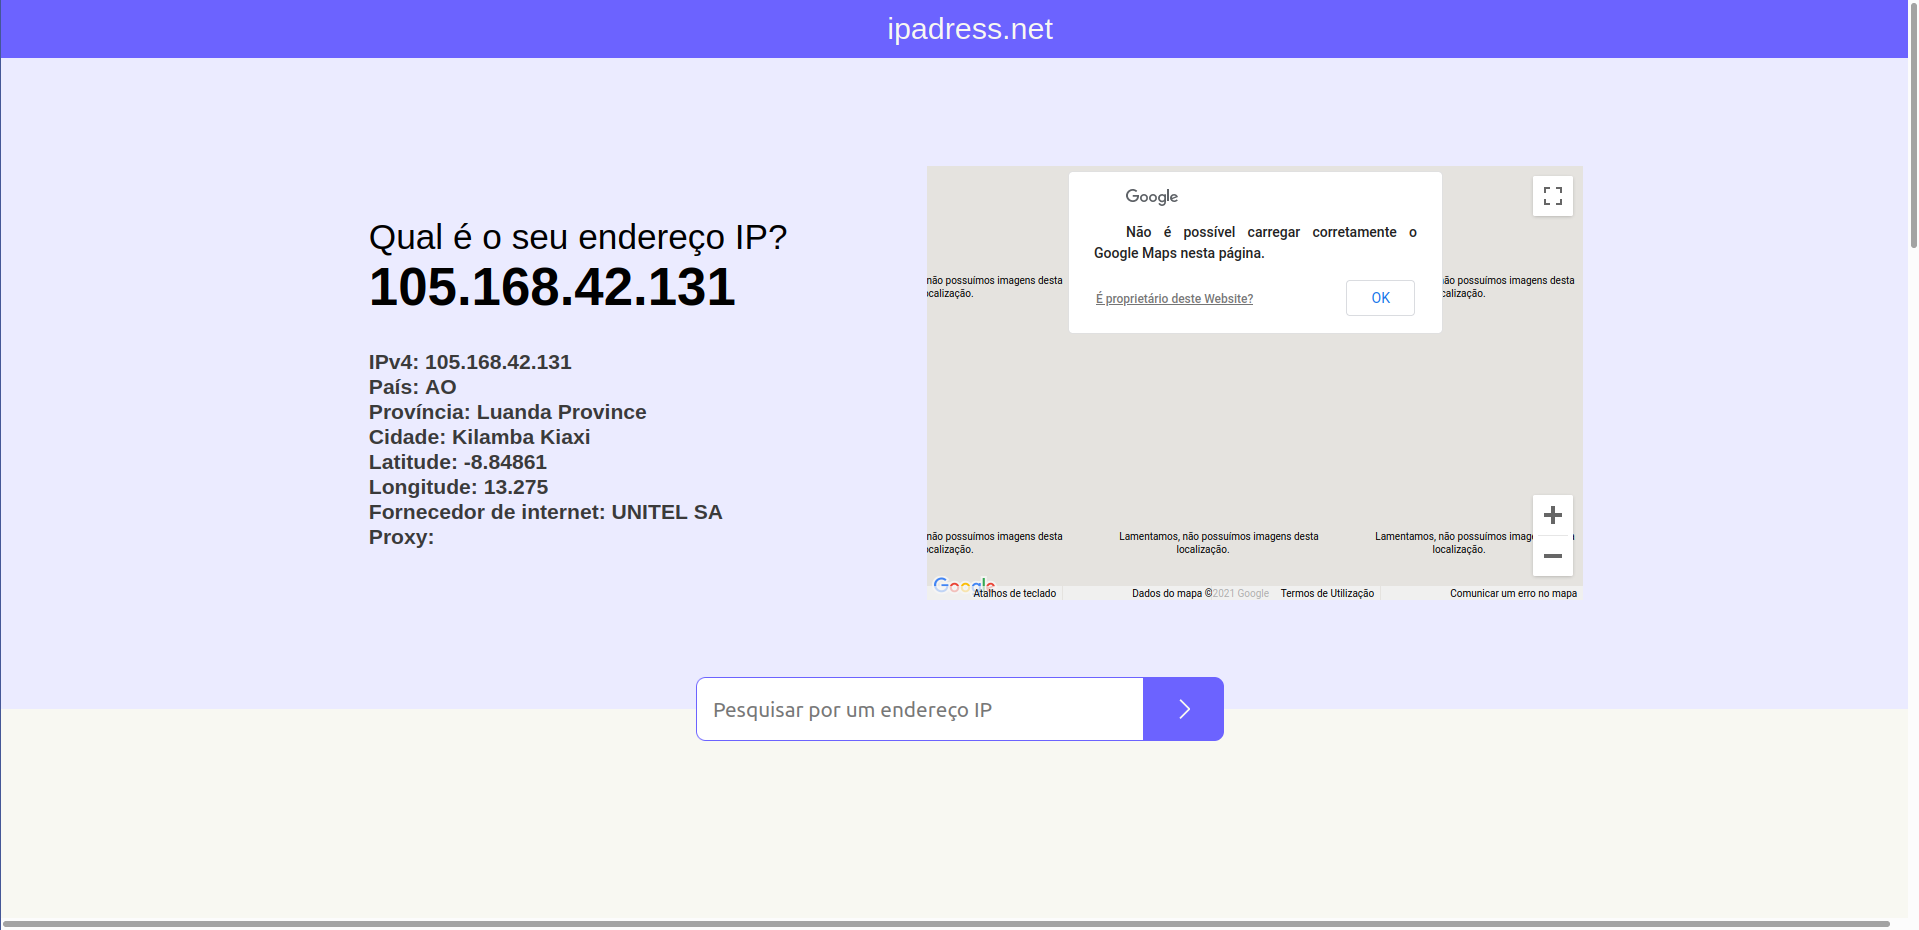
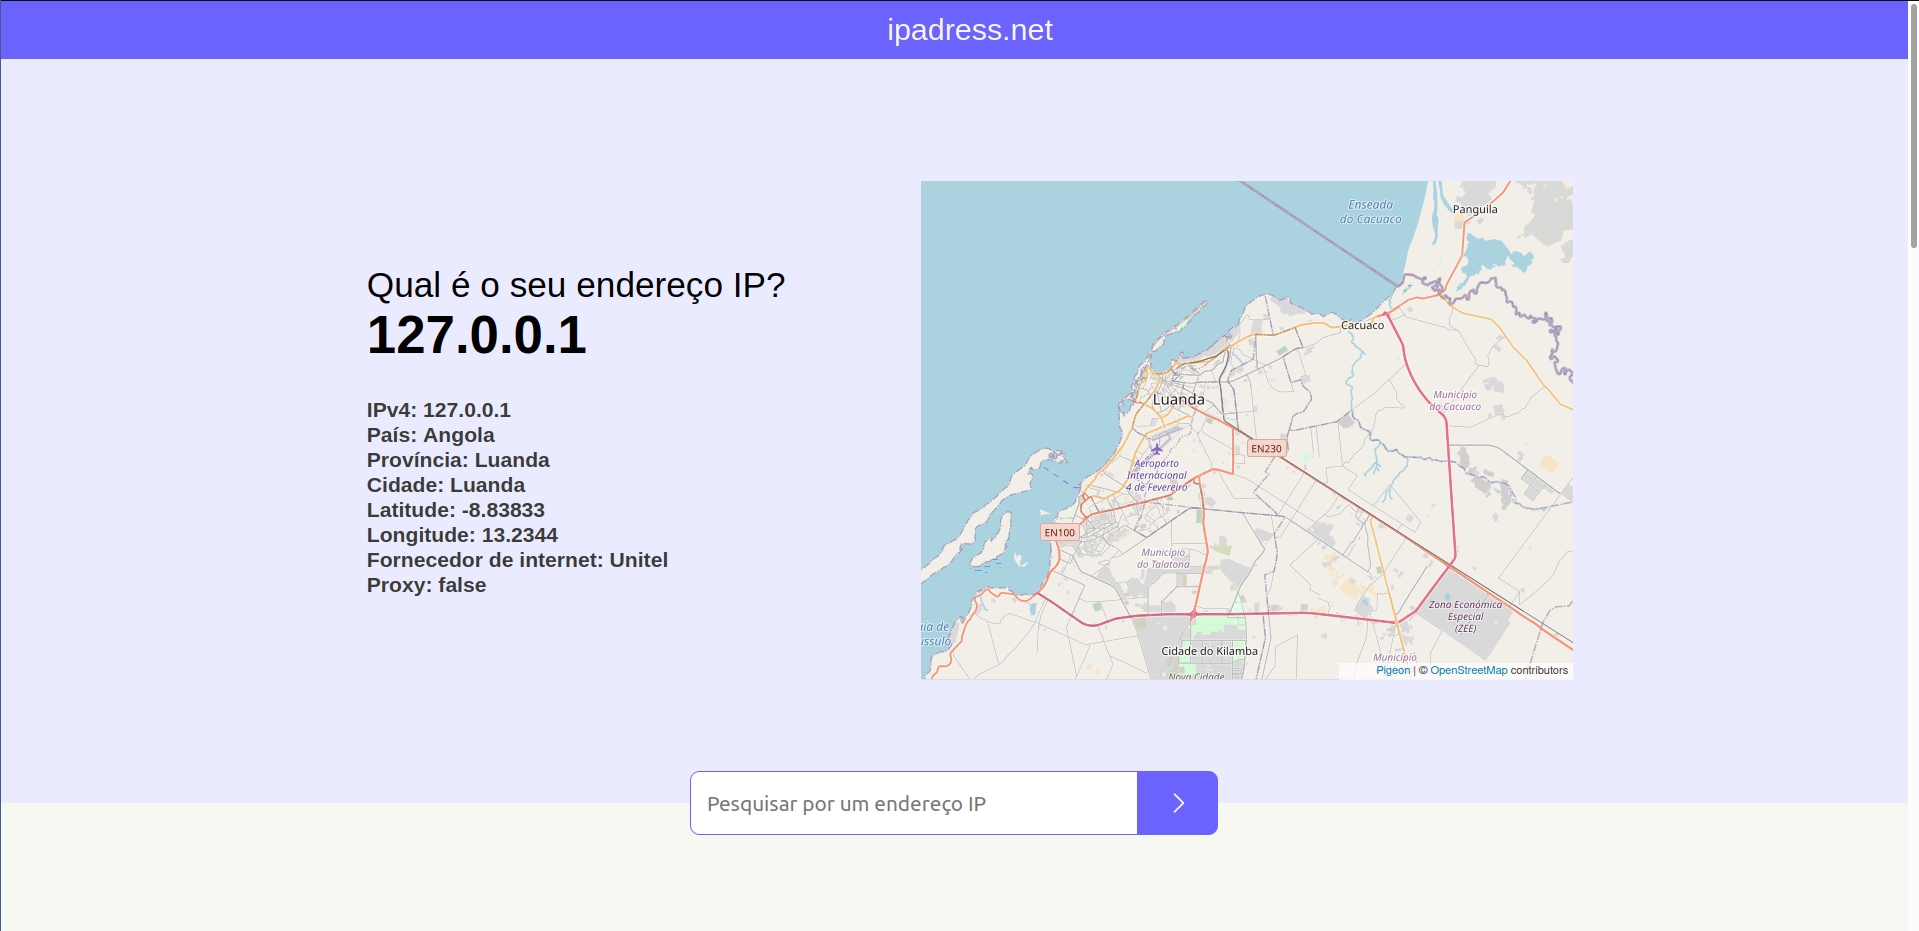
pigeon Maps
Implementing Pigeon Maps in the Project

diff --git a/components/Dashboard/index.js b/components/Dashboard/index.js
@@ -10,13 +10,13 @@ import { WrapperMain, Wrapper, SearchIp } from './styles'
 import { VscChevronRight } from 'react-icons/vsc'
 
 const Dashboard = () => {
-  const [ip, setIp] = useState('0.0.0.0')
-  const [country, setCountry] = useState('zz')
-  const [region, setRegion] = useState('zz')
-  const [city, setCity] = useState('zz')
-  const [lat, setLat] = useState(0)
-  const [lng, setLng] = useState(0)
-  const [isp, setIsp] = useState()
+  const [ip, setIp] = useState('127.0.0.1')
+  const [country, setCountry] = useState('Angola')
+  const [region, setRegion] = useState('Luanda')
+  const [city, setCity] = useState('Luanda')
+  const [lat, setLat] = useState(-8.83833)
+  const [lng, setLng] = useState(13.2344)
+  const [isp, setIsp] = useState('Unitel')
   const [proxy, setProxy] = useState('false')
 
   const [ipAdress, setIpAdress] = useState()
@@ -25,7 +25,8 @@ const Dashboard = () => {
 
   useEffect(async () => {
     NProgress.start()
-    const data = await axios.get(`${url}`)
+    const data = await axios
+      .get(`${url}`)
       .then(response => response.data)
       .catch(error => alert(error))
 
@@ -44,7 +45,8 @@ const Dashboard = () => {
 
   const handleSearchIp = async () => {
     NProgress.start()
-    const data = await axios.get(`${url}&ipAddress=${ipAdress}`)
+    const data = await axios
+      .get(`${url}&ipAddress=${ipAdress}`)
       .then(response => response.data)
       .catch(error => alert(error))
 
@@ -101,7 +103,7 @@ const Dashboard = () => {
 
           <section className="right-side">
             <div className="map">
-              <Map />
+              <Map lat={lat} lng={lng} />
             </div>
           </section>
         </Wrapper>

diff --git a/components/Map/index.js b/components/Map/index.js
@@ -1,30 +1,23 @@
-import React, { useEffect, useState } from 'react'
-import { GoogleMap, withScriptjs, withGoogleMap } from 'react-google-maps'
+import React, { useState } from 'react'
+import { Map } from 'pigeon-maps'
 
 import { Wrapper } from './styles'
 
-const MapaWrapper = () => {
-  return (
-    <GoogleMap
-      defaultZoom={10}
-      defaultCenter={{ lat: 45.4211, lng: -75.6903 }}
-    />
-  )
-}
-
-const MapWrapped = withScriptjs(withGoogleMap(MapaWrapper))
-
-const Map = () => {
+const Maps = ({lat, lng}) => {
+  const [center, setCenter] = useState([-8.83833, 13.2344])
+  const [zoom, setZoom] = useState(10)
   return (
     <Wrapper>
-      <MapWrapped
-        googleMapURL={`https://maps.googleapis.com/maps/api/js?v=3.exp&libraries=geometry,drawing,places&key=AIzaSyAGhziIAG-rIzlTWlORrwZaYLLFYF2jW_Y`}
-        loadingElement={<div style={{ height: `100%` }} />}
-        containerElement={<div style={{ height: `100%` }} />}
-        mapElement={<div style={{ height: `100%` }} />}
+      <Map
+        center={center}
+        zoom={zoom}
+        onBoundsChanged={({ center, zoom }) => {
+          setCenter(center)
+          setZoom(zoom)
+        }}
       />
     </Wrapper>
   )
 }
 
-export default Map
+export default Maps

diff --git a/components/Map/styles.js b/components/Map/styles.js
@@ -1,6 +1,10 @@
-import styled from 'styled-components';
+import styled from 'styled-components'
 
 export const Wrapper = styled.div`
   width: 100%;
   height: 100%;
-`;
+  display: flex;
+  align-items: center;
+  justify-content: center;
+  border-radius: 2%;
+`

diff --git a/components/Dashboard/styles.js b/components/Dashboard/styles.js
@@ -1,8 +1,8 @@
 import styled from 'styled-components'
 
 export const WrapperMain = styled.div`
-  width: 100vw;
-  height: 70vh;
+  width: 100%;
+  height: 80vh;
   background-color: ${({ theme }) => theme.colors.second};
 `
 
